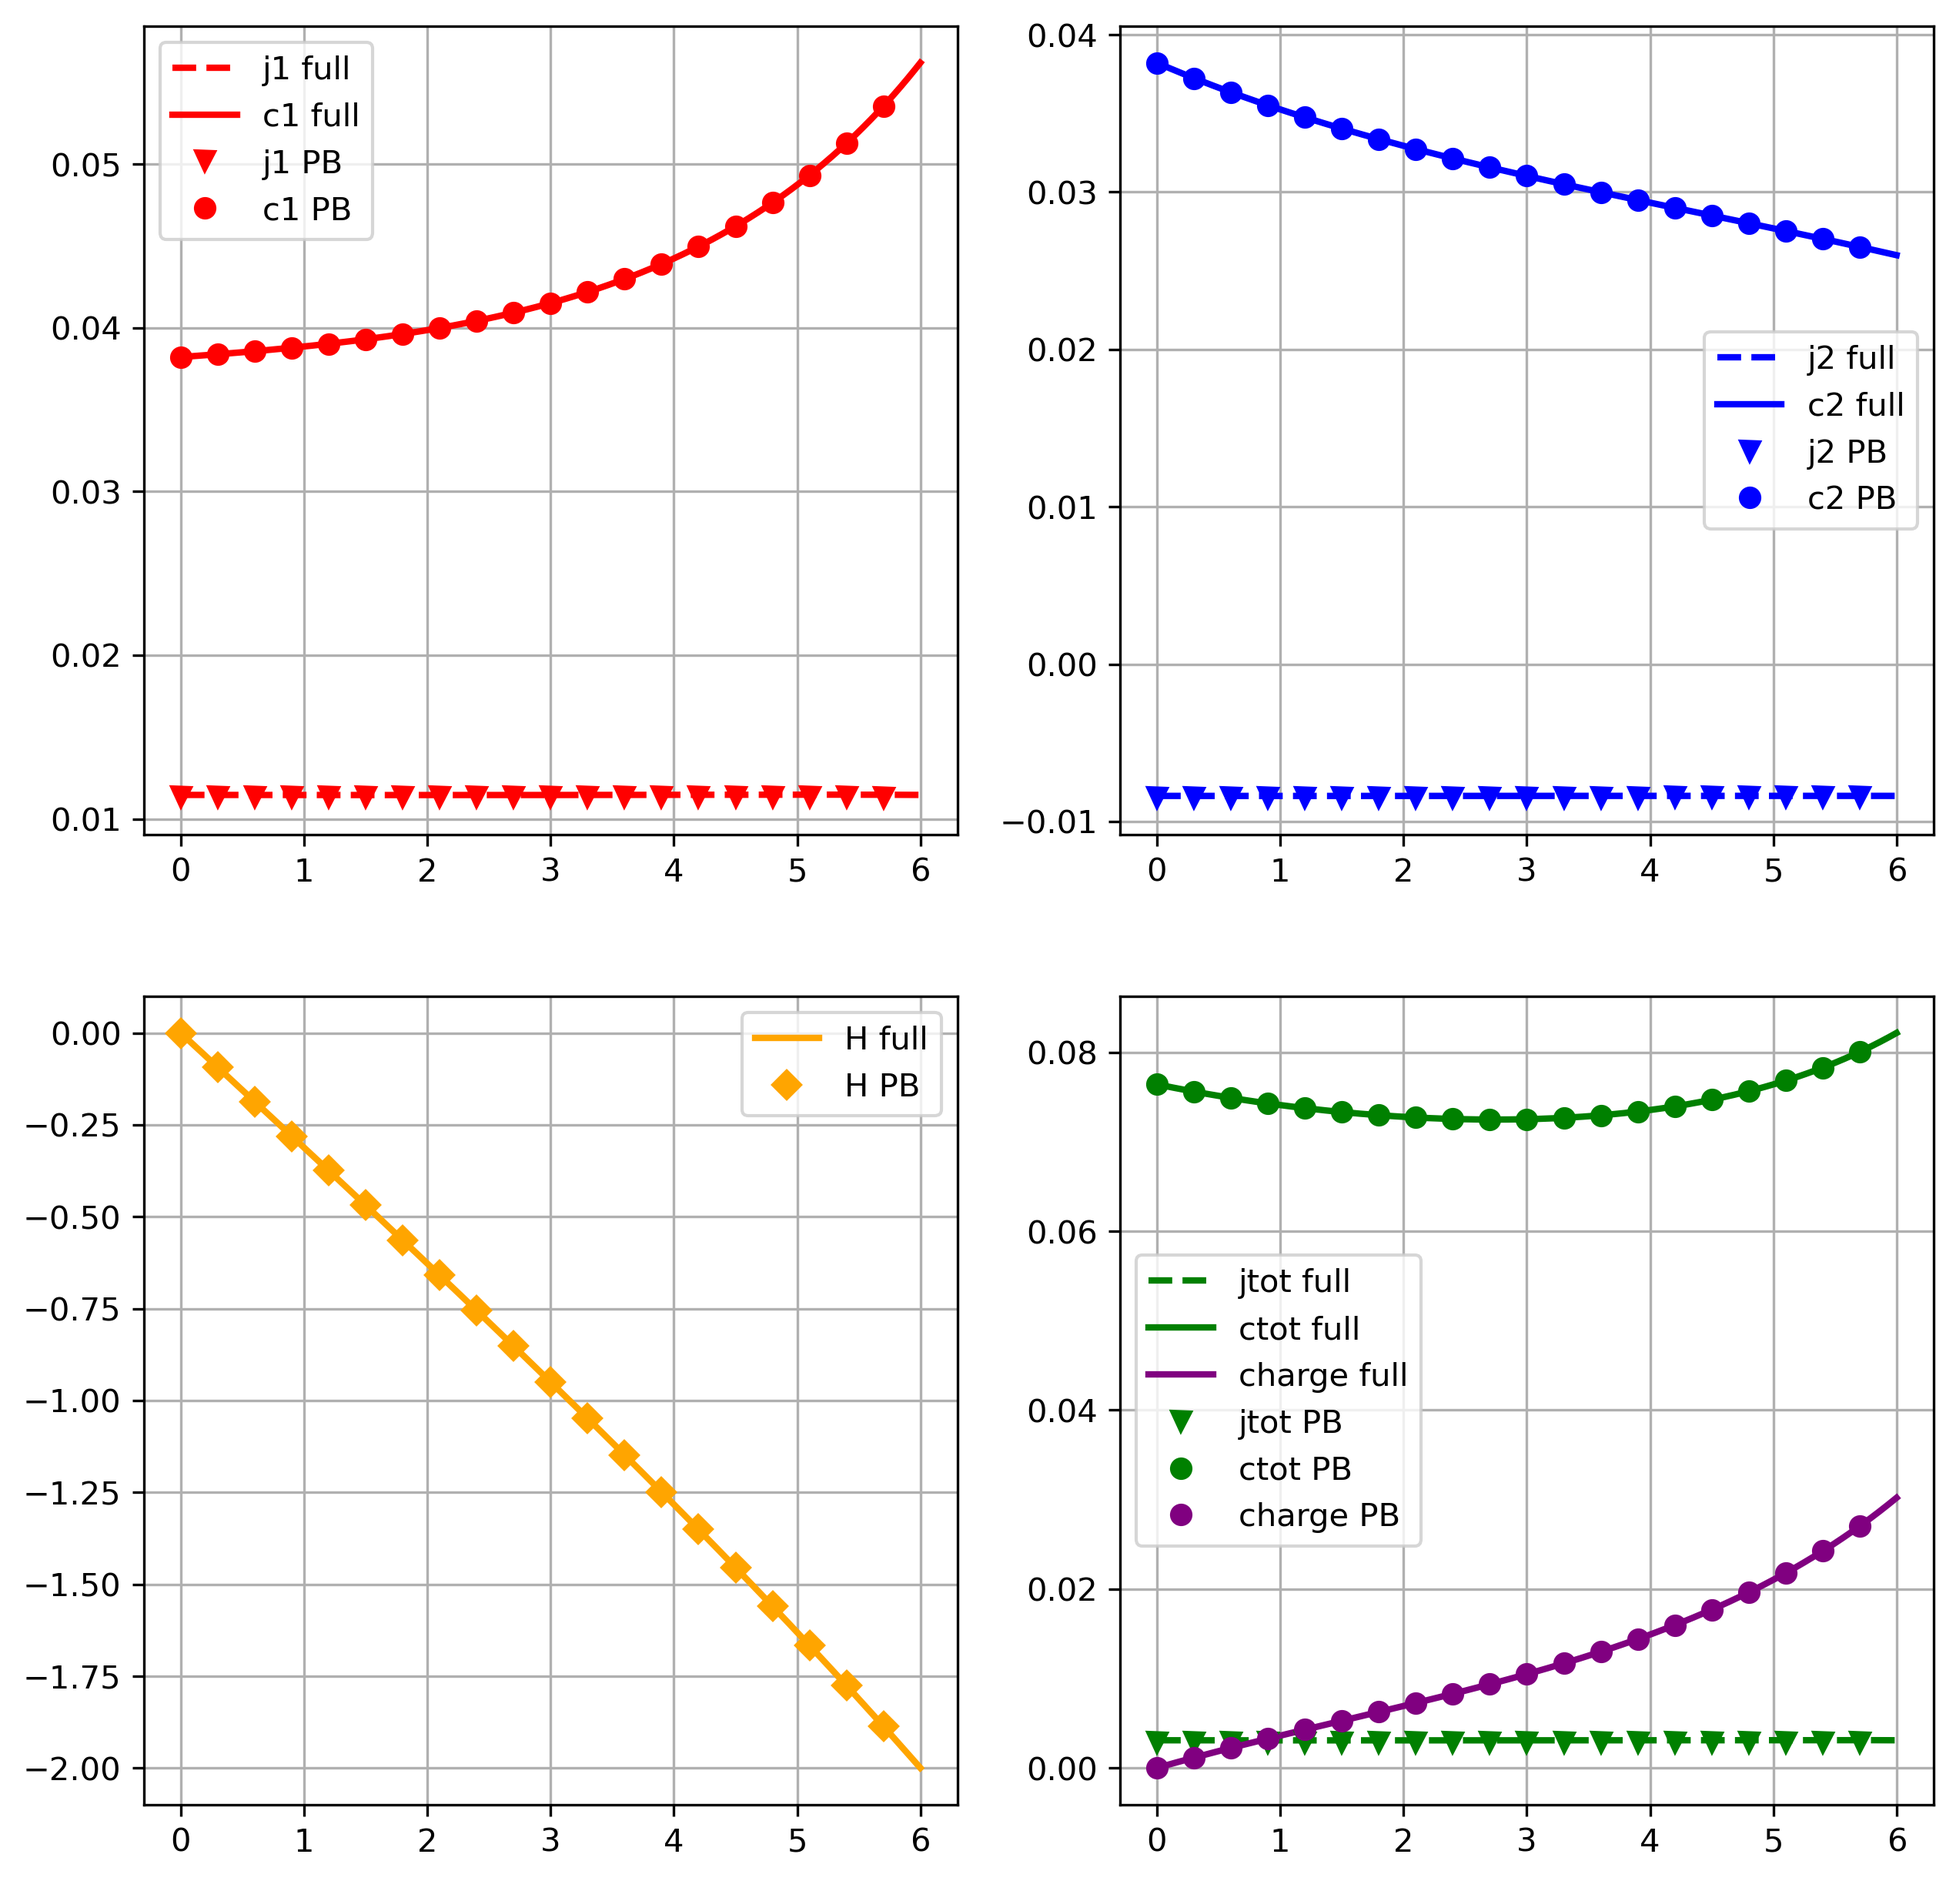
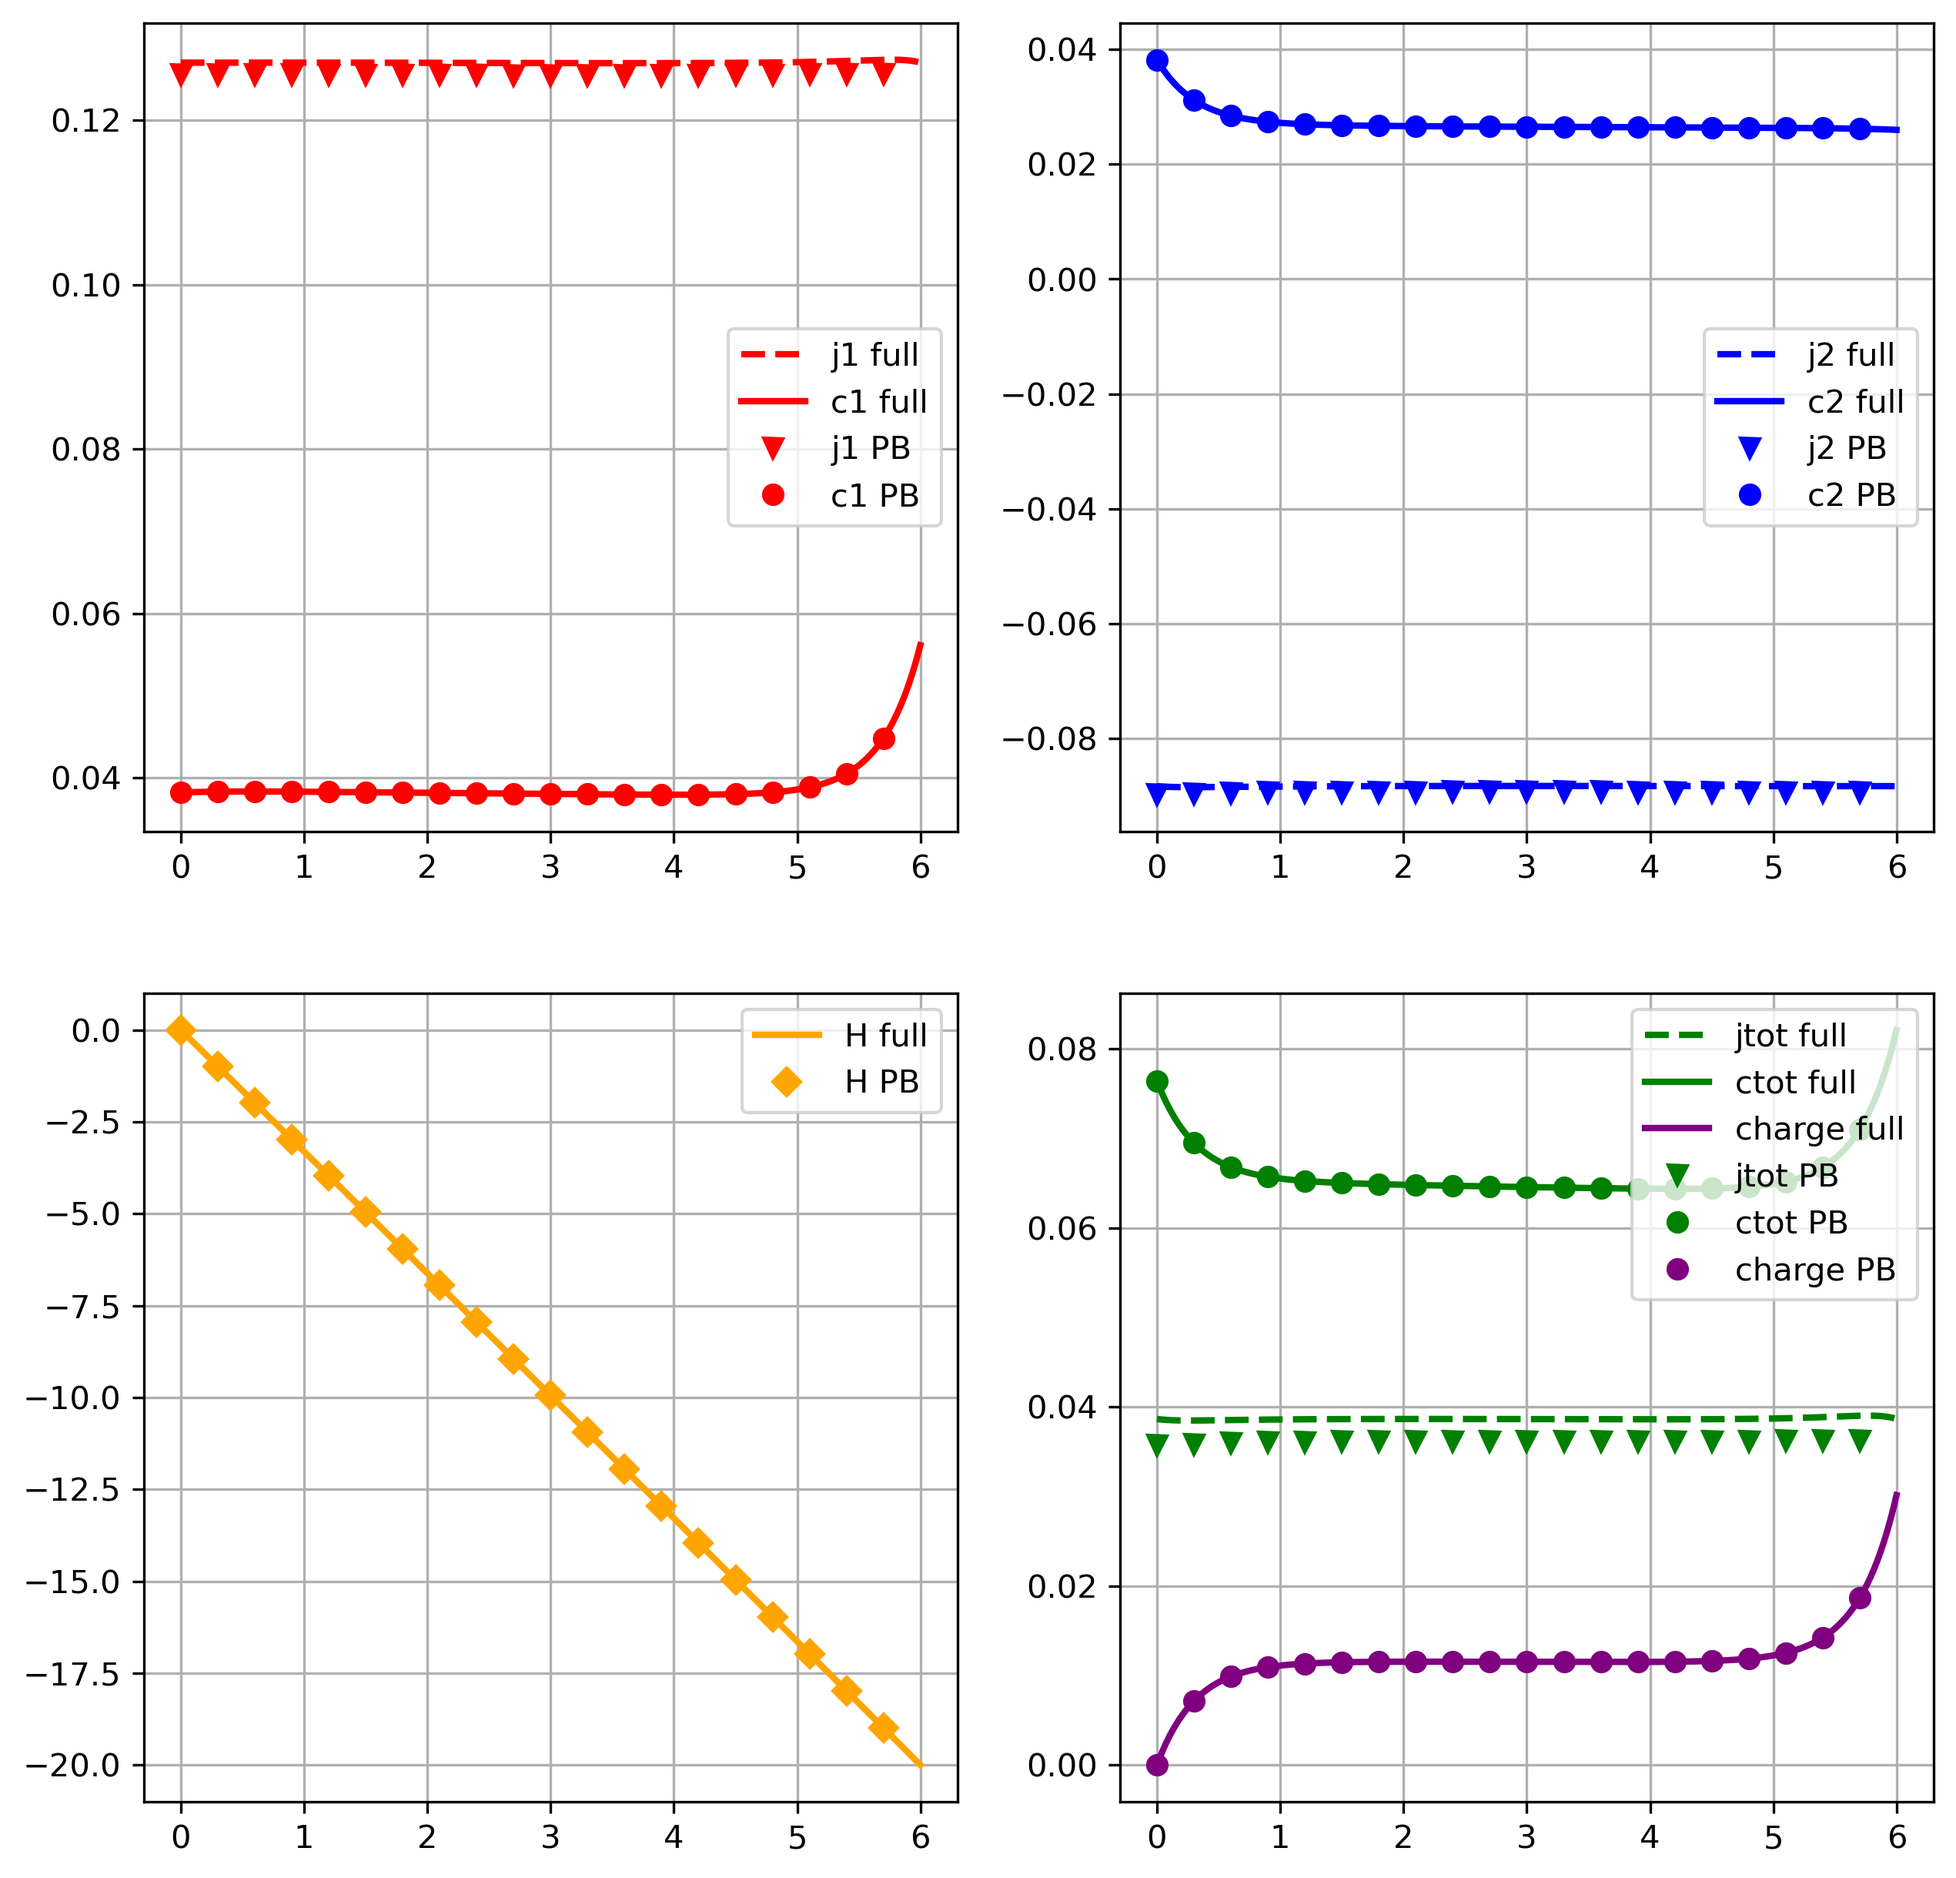
Sync

diff --git a/8_mPNP_1D.py b/8_mPNP_1D.py
@@ -584,7 +584,7 @@ if __name__ == "__main__":
     # 0      C     B      A
     # |------|MMMMM|------|
 
-    VB = -2*k*T/q
+    VB = -20*k*T/q
     bulk_L = 170
     bulk_R = 170
     imposed_L1=bulk_L
